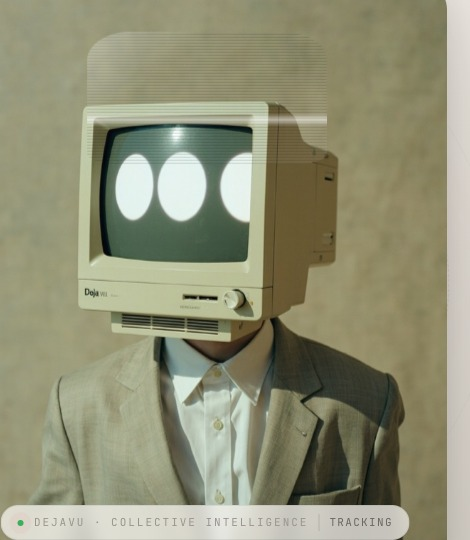
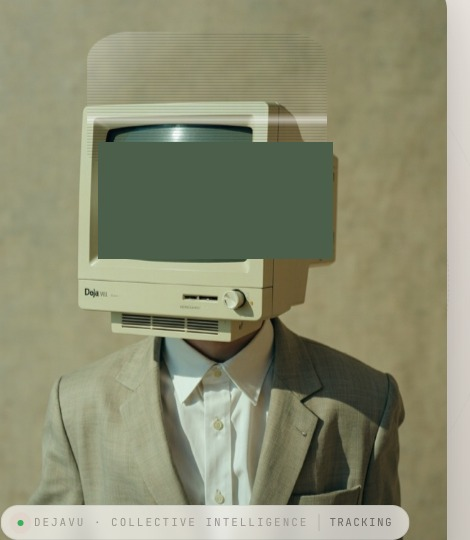
feat(next): 显示器眼睛 — 涂掉 3 个光点 + 2 个 CSS 眼 + 鼠标跟踪 + 偶尔眨眼
- 显示器屏幕区域统一涂成深橄榄绿（去掉原图 2 眼 + 1 顶部小亮点 = 3 光点）
- CSS 覆盖 2 个白椭圆眼睛（30% / 70% 位置，带 radial-gradient 模拟反光）
- 鼠标在 hero 上移动：2 个眼睛 rAF 平滑跟踪（X ±8px, Y ±5px）
- 离开 hero：眼睛回中
- 随机 3.5-6.5s 间隔触发眨眼（scaleY 0.06，130ms）
- 支持 prefers-reduced-motion（无动画）

Changed region(s): [[0.2085, 0.237, 0.7149, 0.5037]]

diff --git a/next/script.js b/next/script.js
@@ -74,15 +74,62 @@
       targetX = nx; targetY = ny;
       active = true;
       if (statusEl && statusEl.textContent !== 'tracking') statusEl.textContent = 'tracking';
+      // Eye tracking: offset = (nx-0.5, ny-0.5) * MAX_EYE_OFFSET
+      eyeDx = (nx - 0.5) * 2;
+      eyeDy = (ny - 0.5) * 2;
+      scheduleEyeUpdate();
       if (rafId === null) rafId = requestAnimationFrame(apply);
     };
     const onLeave = () => {
       active = false;
       if (statusEl && statusEl.textContent !== 'online') statusEl.textContent = 'online';
+      eyeDx = 0; eyeDy = 0;
+      scheduleEyeUpdate();
       if (rafId === null) rafId = requestAnimationFrame(apply);
     };
 
     const statusEl = $('#hvStatus');
+    const eyeL = $('#hvEyeL');
+    const eyeR = $('#hvEyeR');
+    const MAX_EYE_OFFSET = 8;   // px (subtle)
+    const MAX_EYE_OFFSET_Y = 5;
+    let eyeDx = 0, eyeDy = 0;
+    let eyeRaf = null;
+    let curEyeX = 0, curEyeY = 0;
+
+    // rAF lerp so eyes move smoothly with mouse (and return to center on leave)
+    const updateEyes = () => {
+      eyeRaf = null;
+      curEyeX += (eyeDx - curEyeX) * 0.22;
+      curEyeY += (eyeDy - curEyeY) * 0.22;
+      const offX = curEyeX * MAX_EYE_OFFSET;
+      const offY = curEyeY * MAX_EYE_OFFSET_Y;
+      // Skip transform update during blink (blink class overrides)
+      if (document.body.classList.contains('hv-blinking')) {
+        if (Math.abs(eyeDx - curEyeX) > 0.001 || Math.abs(eyeDy - curEyeY) > 0.001) {
+          eyeRaf = requestAnimationFrame(updateEyes);
+        }
+        return;
+      }
+      if (eyeL) eyeL.style.transform = `translate(calc(-50% + ${offX.toFixed(2)}px), calc(-50% + ${offY.toFixed(2)}px))`;
+      if (eyeR) eyeR.style.transform = `translate(calc(-50% + ${offX.toFixed(2)}px), calc(-50% + ${offY.toFixed(2)}px))`;
+      if (Math.abs(eyeDx - curEyeX) > 0.001 || Math.abs(eyeDy - curEyeY) > 0.001) {
+        eyeRaf = requestAnimationFrame(updateEyes);
+      }
+    };
+    const scheduleEyeUpdate = () => {
+      if (eyeRaf === null) eyeRaf = requestAnimationFrame(updateEyes);
+    };
+
+    // Blink: schedule random blinks every 3.5–6.5s
+    const blink = () => {
+      if (!matchMedia('(prefers-reduced-motion: reduce)').matches) {
+        document.body.classList.add('hv-blinking');
+        setTimeout(() => document.body.classList.remove('hv-blinking'), 130);
+      }
+      setTimeout(blink, 3500 + Math.random() * 3000);
+    };
+    setTimeout(blink, 2200);
 
     heroFigure.addEventListener('mousemove', onMove);
     heroFigure.addEventListener('mouseleave', onLeave);

diff --git a/next/styles.css b/next/styles.css
@@ -436,6 +436,49 @@ h1, h2, h3, h4, p { margin: 0; }
   -webkit-user-drag: none;
 }
 
+/* Hero monitor screen — the dark CRT area inside the bezel.
+   .hv-screen is the visible CRT area; .hv-eye are the 2 animated eye dots. */
+.hv-screen {
+  position: absolute;
+  top: 26.3%;
+  left: 20.8%;
+  width: 49.8%;
+  height: 21.5%;
+  overflow: hidden;
+  border-radius: 6px;
+  pointer-events: none;
+}
+.hv-eye {
+  position: absolute;
+  top: 50%;
+  width: 18%;
+  height: 60%;
+  background: radial-gradient(ellipse at 50% 50%,
+    #ffffff 0%,
+    #f0f4f7 35%,
+    #d4dde2 70%,
+    #a8b3ba 100%);
+  border-radius: 50%;
+  transform: translate(-50%, -50%);
+  will-change: transform;
+  box-shadow:
+    0 0 6px rgba(255, 255, 255, 0.35),
+    inset 0 1px 2px rgba(255, 255, 255, 0.6);
+  transform-origin: center;
+}
+.hv-eye-l { left: 30%; }
+.hv-eye-r { left: 70%; }
+
+/* Blink animation: occasional vertical squish, triggered by JS class toggle */
+.hv-blinking .hv-eye {
+  animation: hv-blink-once 130ms ease-out;
+}
+@keyframes hv-blink-once {
+  0%   { transform: scaleY(1); }
+  50%  { transform: scaleY(0.06); }
+  100% { transform: scaleY(1); }
+}
+
 /* Hero status chip — small, monospace, live dot. */
 .hv-status {
   position: absolute;

diff --git a/next/index.html b/next/index.html
@@ -79,6 +79,10 @@
         <div class="hero-visual" id="heroVisual">
           <div class="hv-figure" id="hvFigure">
             <img class="hv-img" id="hvImg" src="assets/hero-robot.jpg" alt="CRT-headed AI assistant" draggable="false" />
+            <div class="hv-screen" id="hvScreen" aria-hidden="true">
+              <span class="hv-eye hv-eye-l" id="hvEyeL"></span>
+              <span class="hv-eye hv-eye-r" id="hvEyeR"></span>
+            </div>
             <span class="hv-status" id="hvStatus" aria-hidden="true">online</span>
           </div>
         </div>
